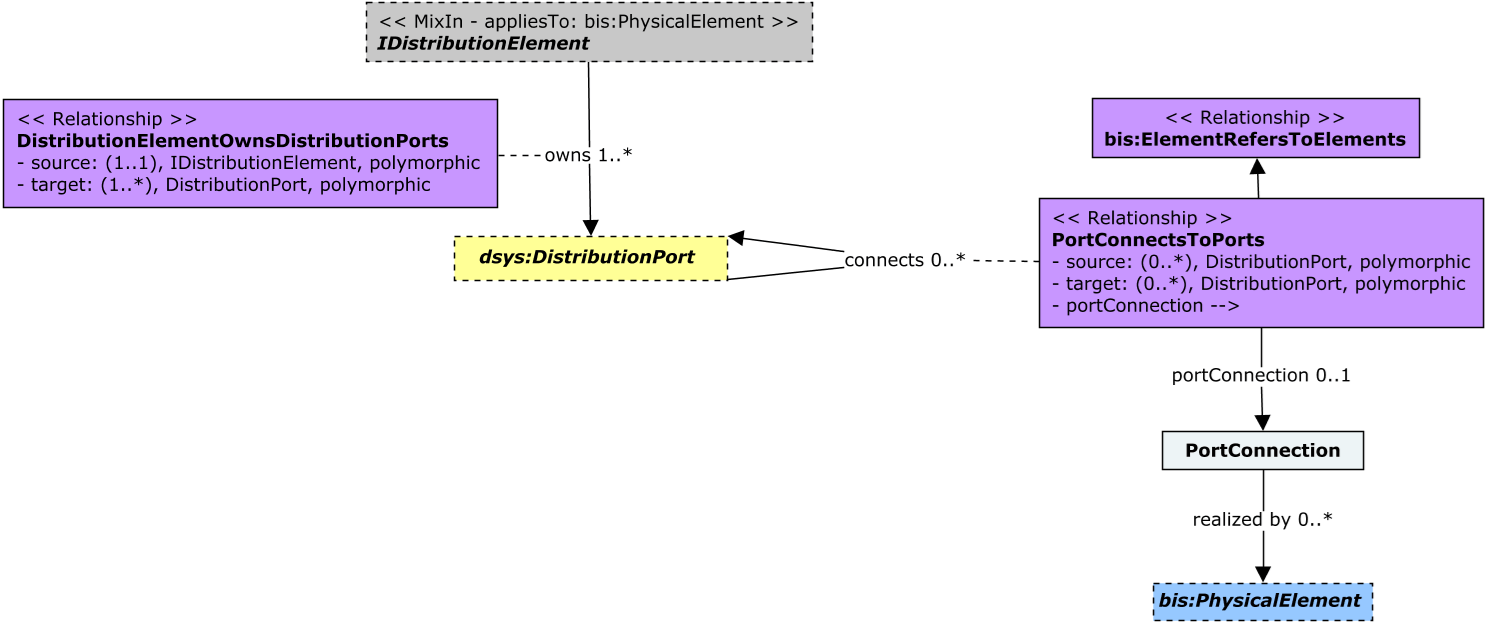
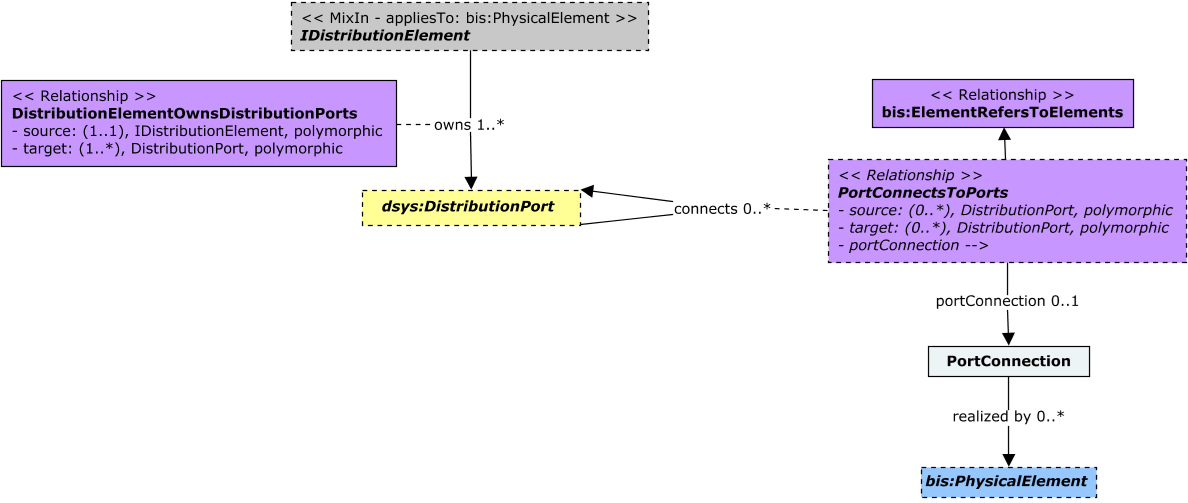
Ensure PortConnectsToPorts remains abstract.

Changed region(s): [[0.6852, 0.1491, 1.0, 1.0], [0.0, 0.1491, 0.654, 0.4771], [0.2492, 0.0, 0.5606, 0.1193]]

diff --git a/Domains/1-Common/DistributionSystems/DistributionSystems.remarks.md b/Domains/1-Common/DistributionSystems/DistributionSystems.remarks.md
@@ -83,13 +83,12 @@ Equivalent to [IfcDistributionPort](https://standards.buildingsmart.org/IFC/RELE
 
 A `PortConnection` instance objectifies a physical connection between 2 or more DistributionPorts when needed. That is typically the case when the level of granularity being modeled includes any physical element(s) that realize a connection. In that case, the realizing element(s) could be found using the `PortConnectionIsRealizedByPhysicalElements` relationship.
 
-A `PortConnection` generally connects two distribution ports via the `PortConnectionConnectsTwoPorts`. However, its base `PortConnectionConnectsPorts` relationship class can be used when modeling port-connections at a higher level of detail.
-
-
 ## Relationships
 
 ### PortConnectsToPort
 
 The connection between two or more DistributionPorts can be objectified by associating a `PortConnection` instance via the `PortConnectionObjectifiesConnection` relationship. Objectifying a connection is needed when there is data (identity or business-related) to be captured about a connection, or when the level of granularity being modeled includes any physical element(s) that realize it.
+
+BIS domains extending the rules and patterns in the DistributionSystems schema are expected to subclass the `PortConnectsToPort` relationship in order to provide specific semantics and multiplicity applicable to how DistributionPort instances connect in such domain.
 
 Equivalent to [IfcRelConnectsPorts](https://standards.buildingsmart.org/IFC/RELEASE/IFC4_3/HTML/lexical/IfcRelConnectsPorts.htm).
